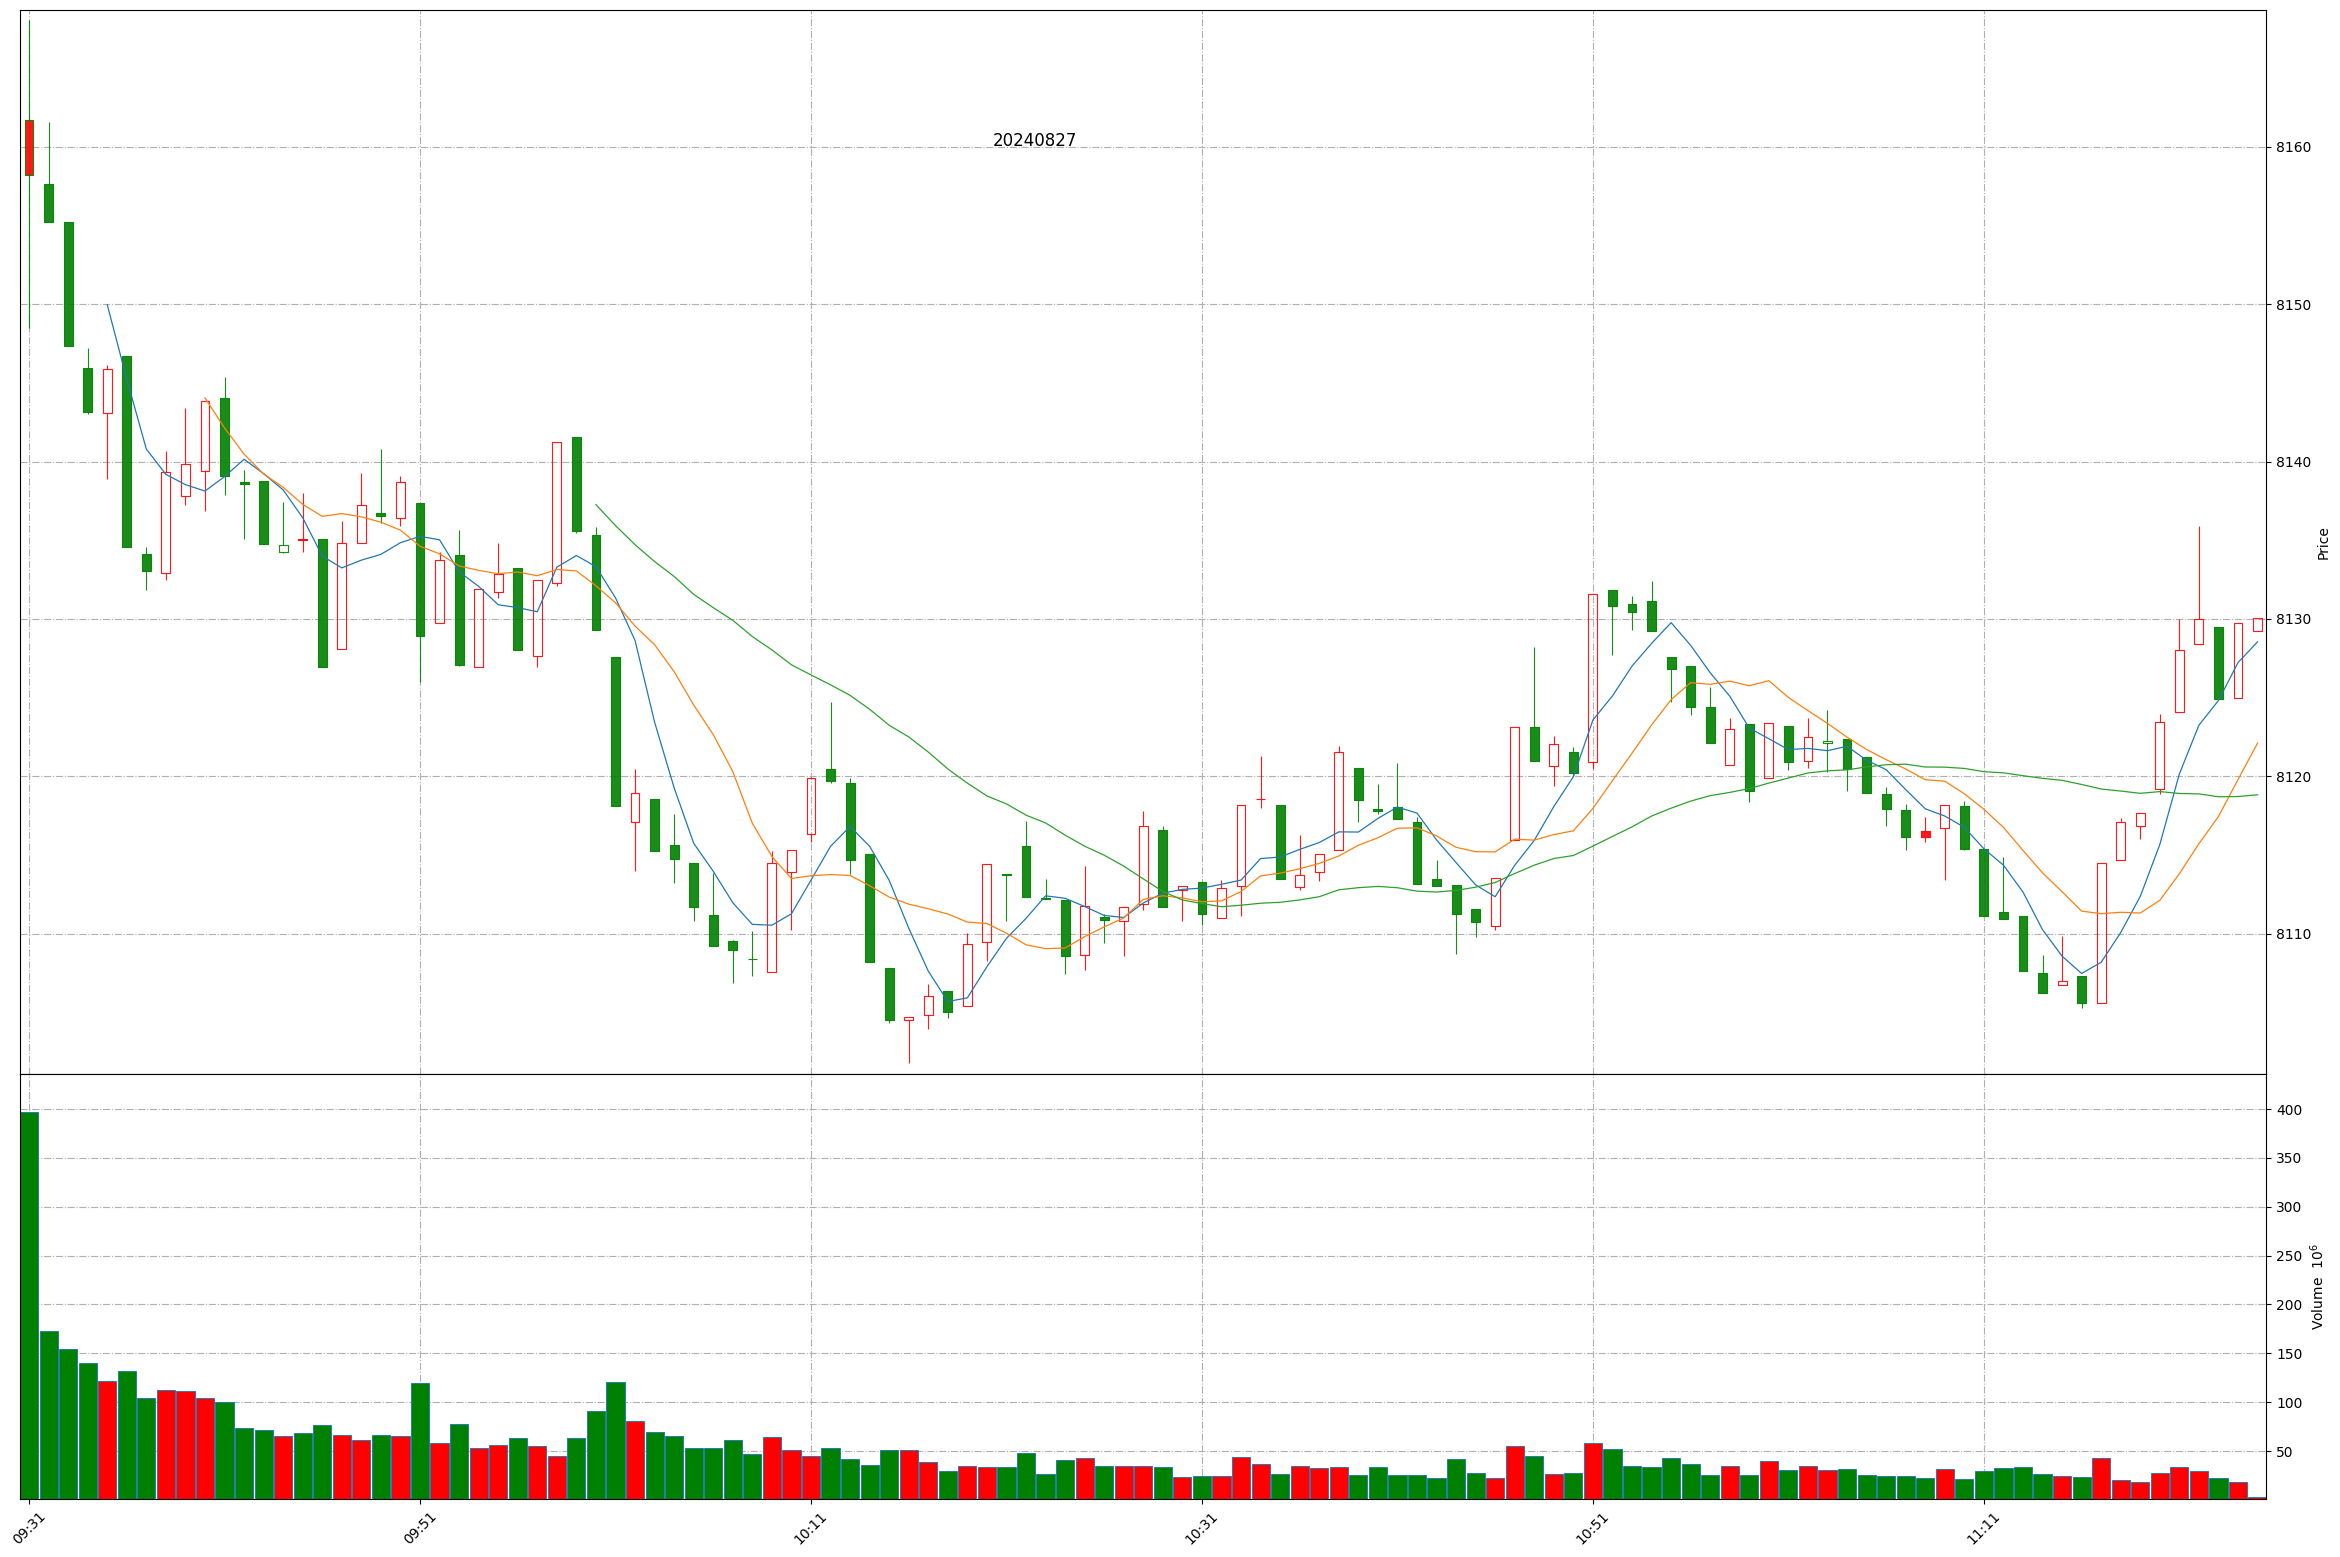
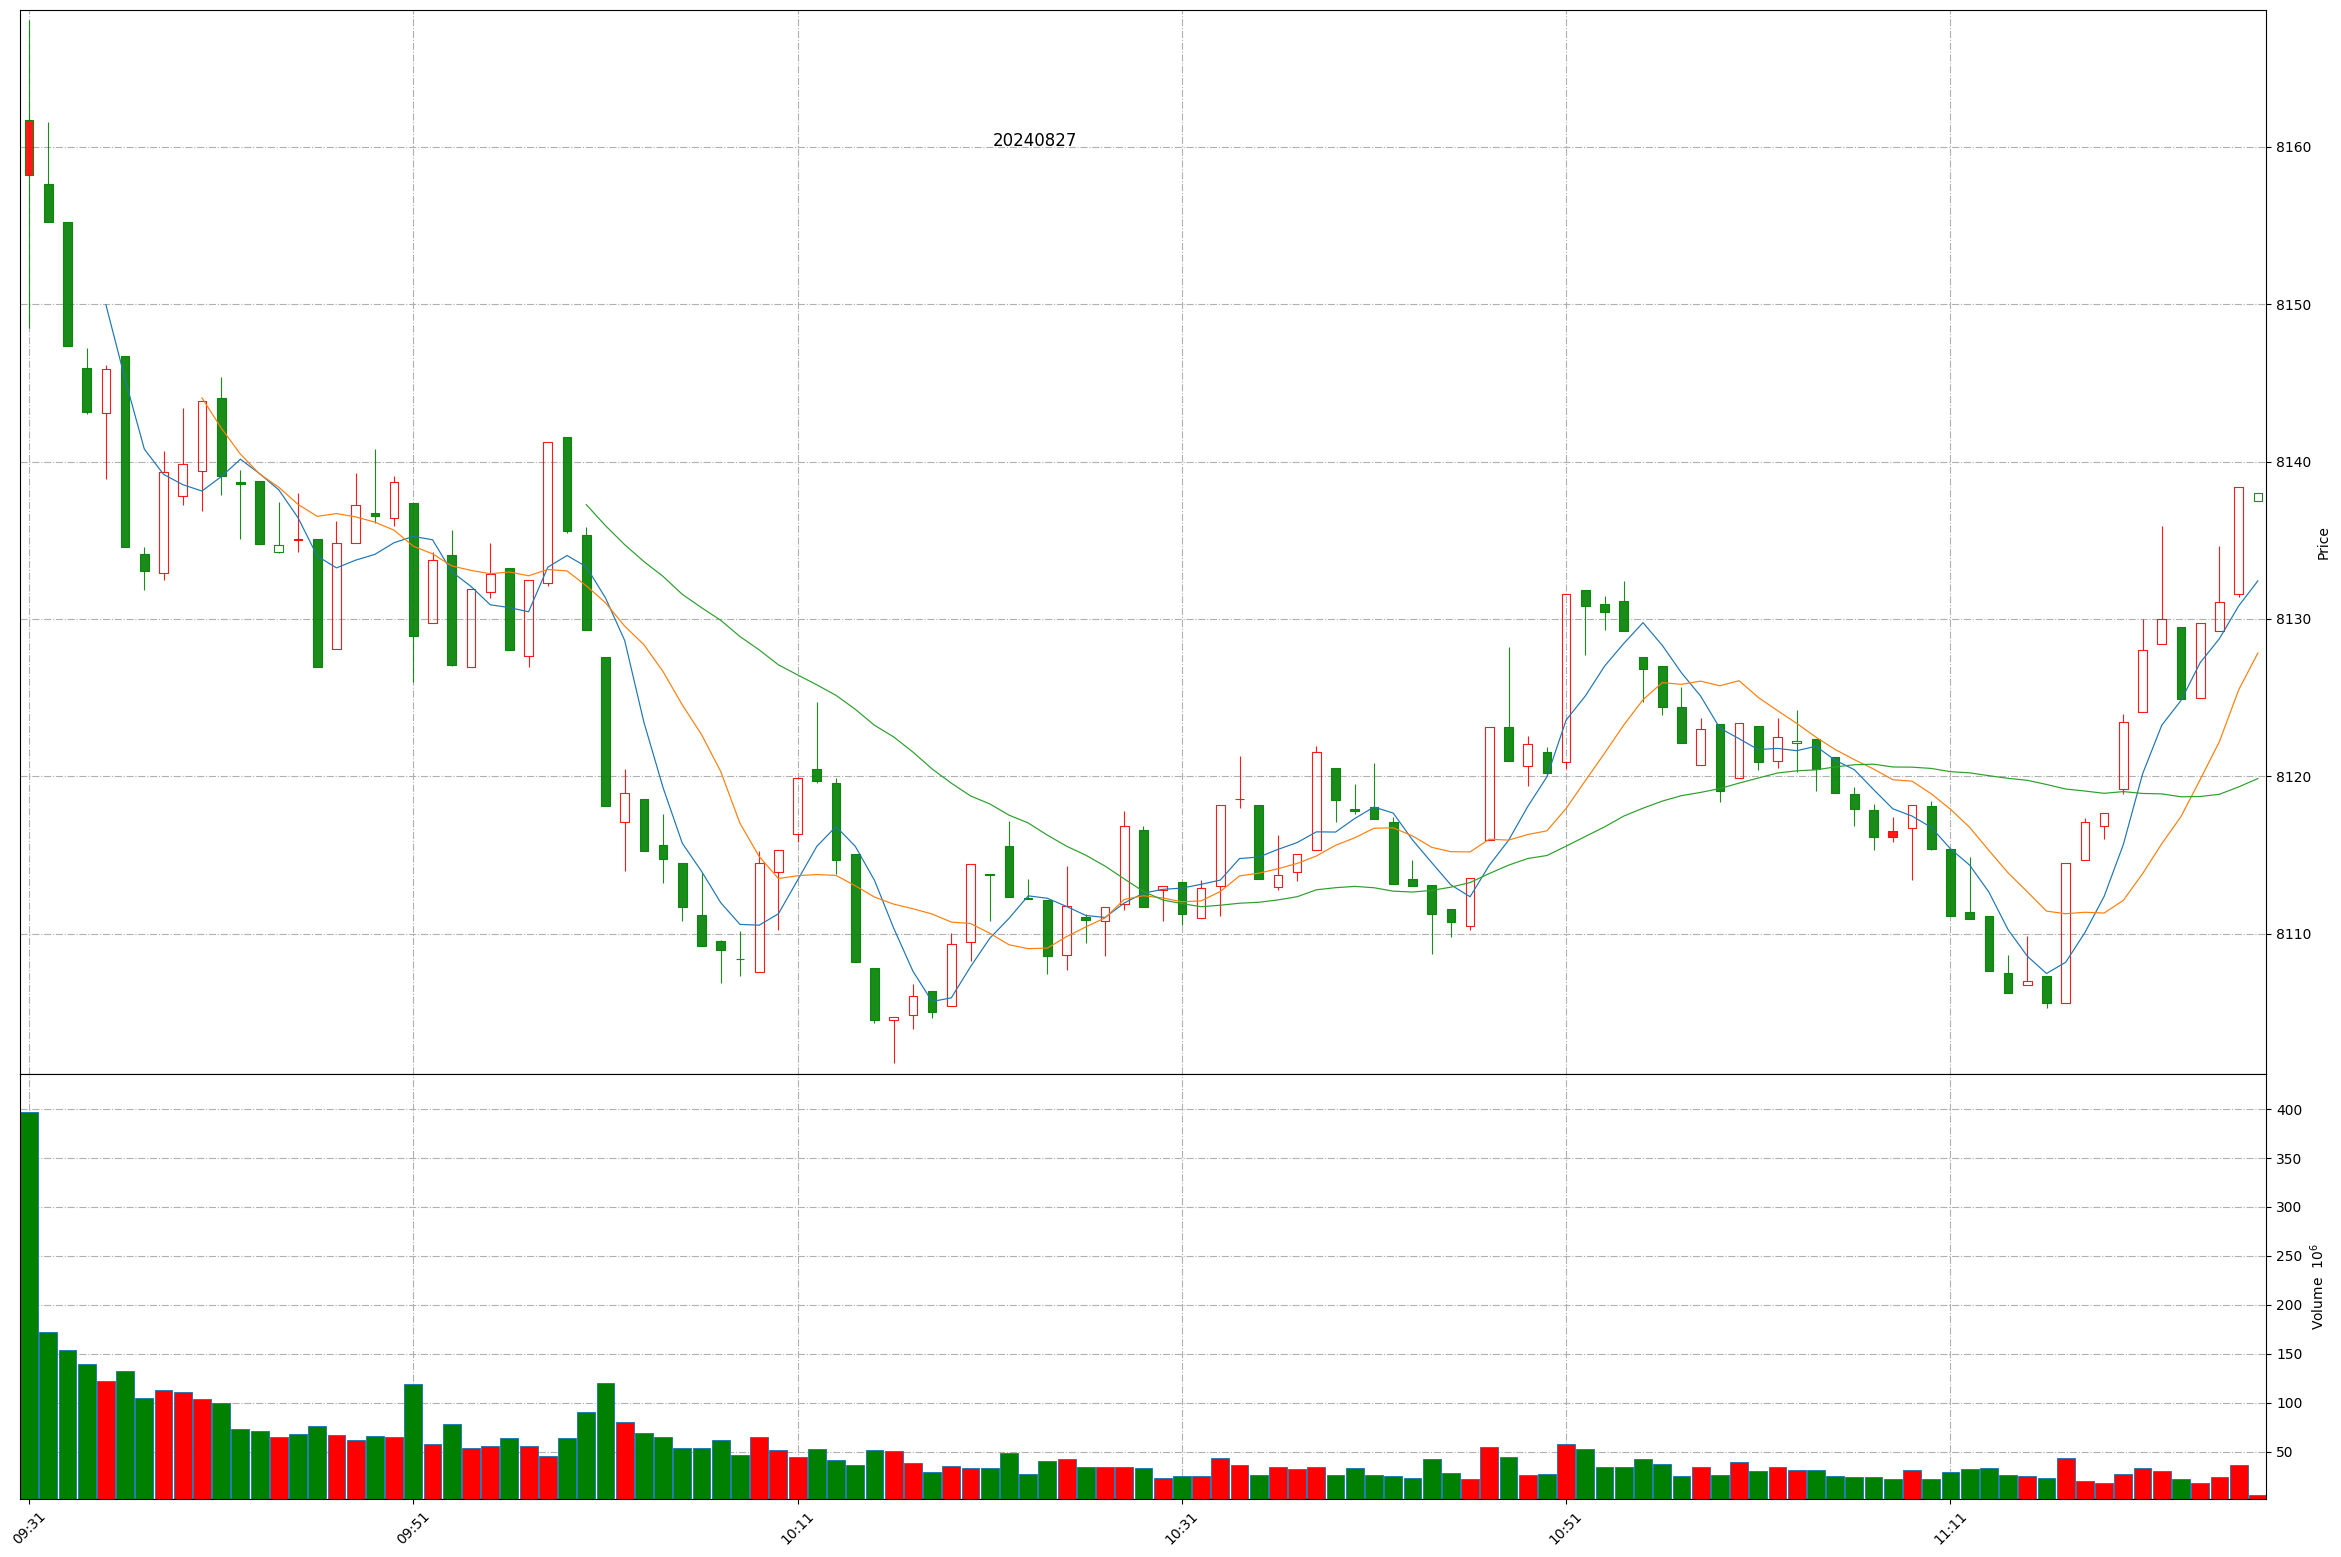
Github action update at 2024-08-27 11:26:23.

diff --git a/README.md b/README.md
@@ -1,11 +1,11 @@
 
 # Daily-A-share-market-quotes 每日 A 股指数（5min 更新）- 20240827
 
-### 上证指数 20240827 11:24
+### 上证指数 20240827 11:26
 ![](./fig/2024/8/20240827-sh000001.png)
 
-### 深证成指 20240827 11:24
+### 深证成指 20240827 11:26
 ![](./fig/2024/8/20240827-sz399001.png)
 
-### 北证50 20240827 11:24
+### 北证50 20240827 11:26
 ![](./fig/2024/8/20240827-bj899050.png)
